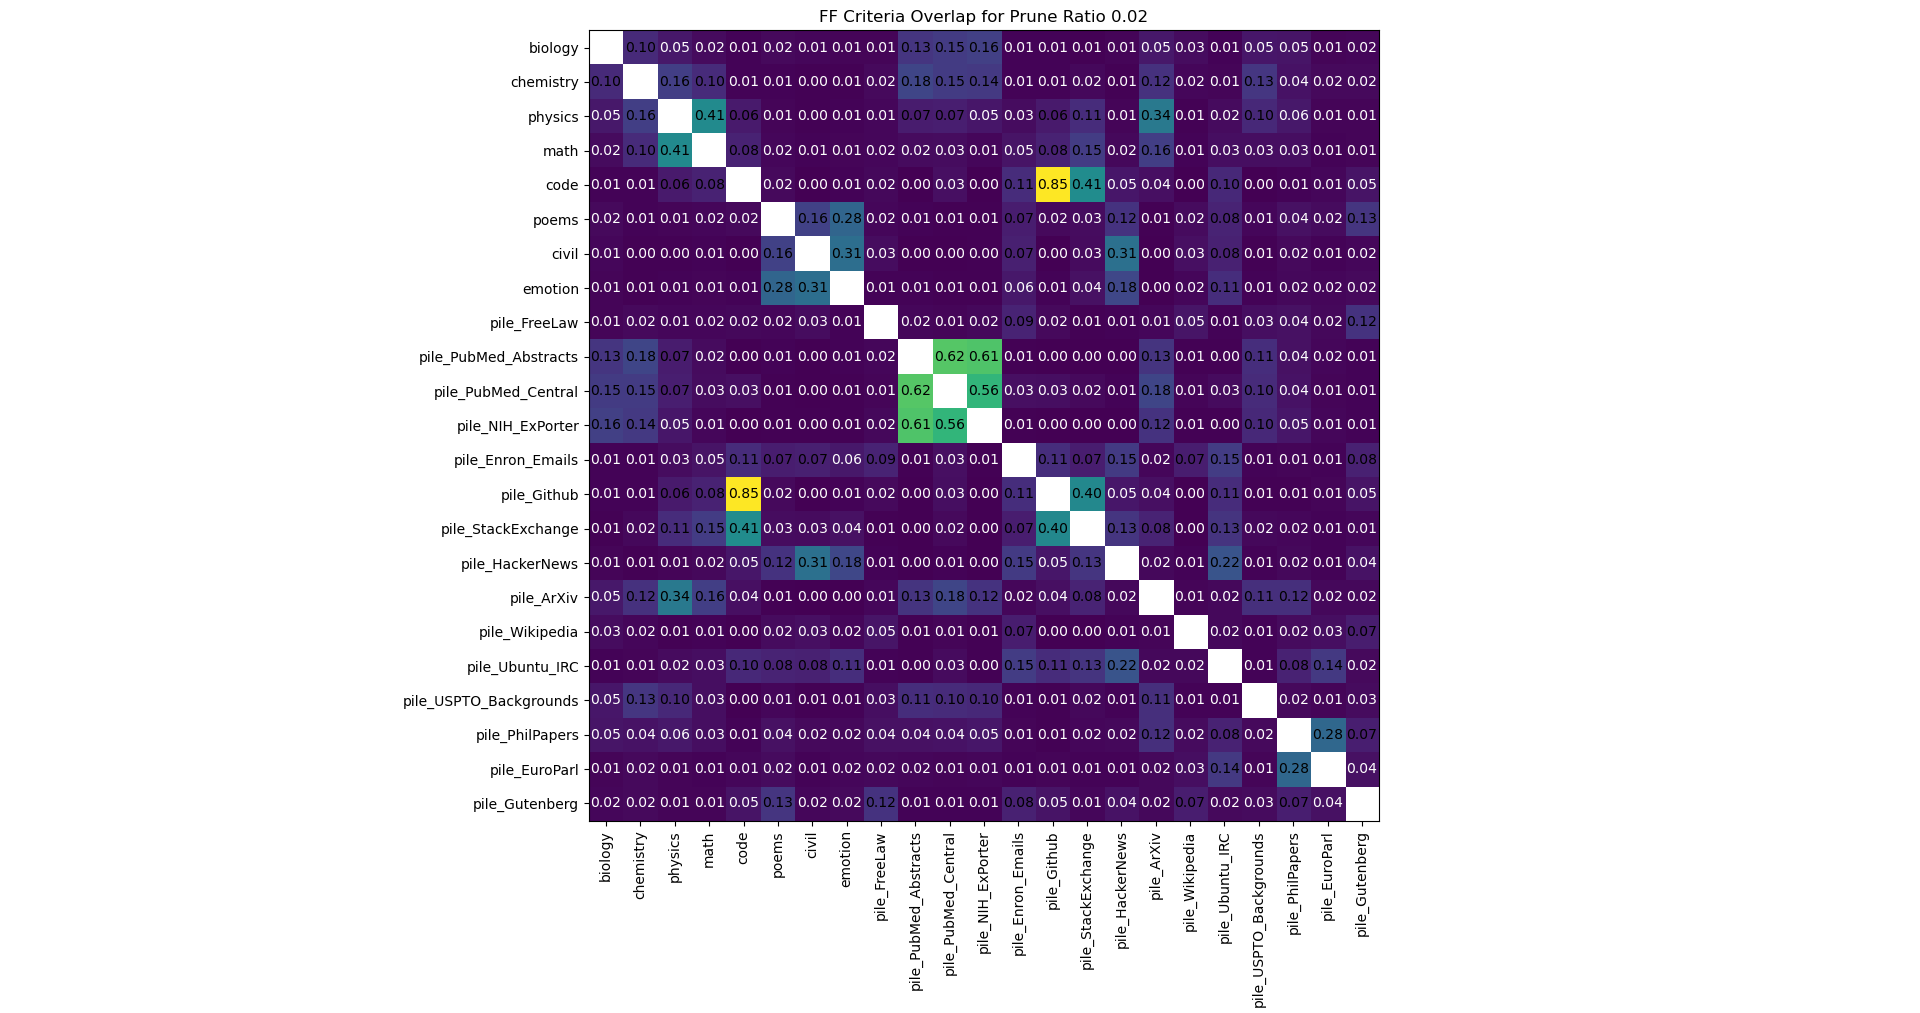
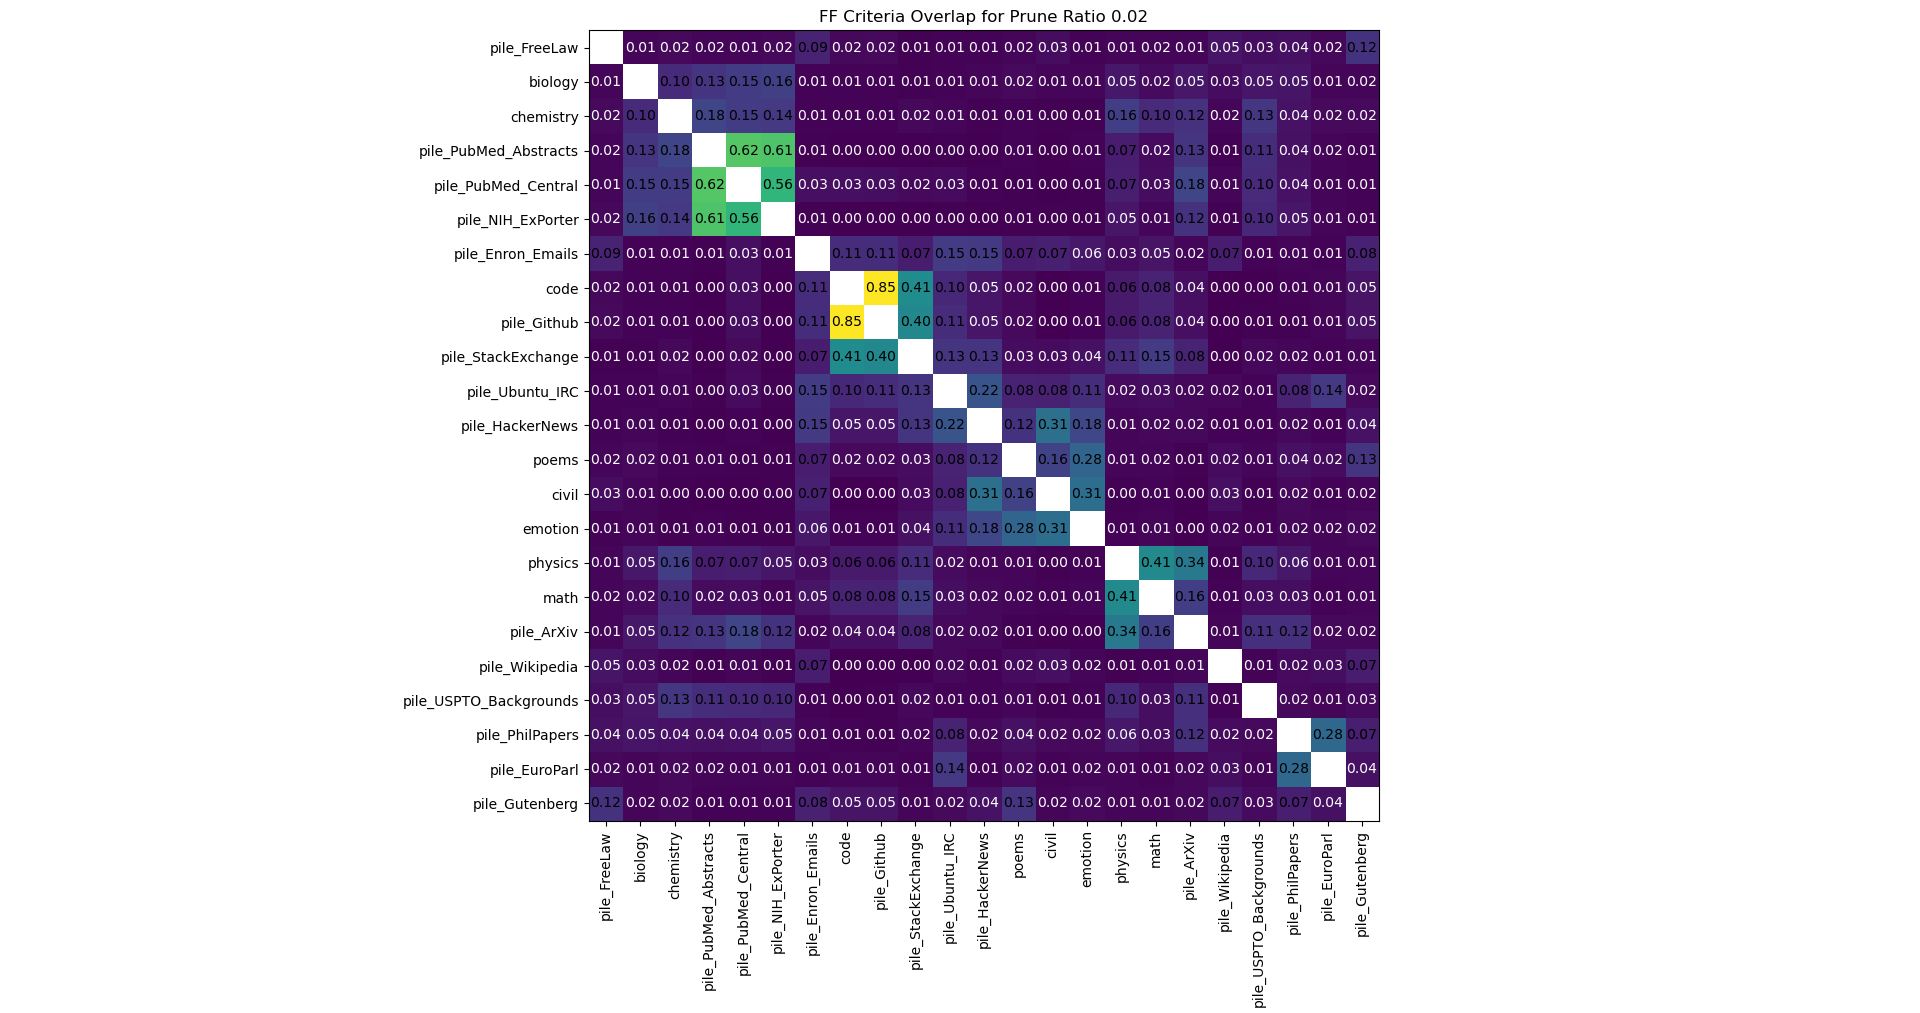
reordered repos in plot slightly

Changed region(s): [[0.2188, 0.0306, 0.7188, 0.9793], [0.6875, 0.0306, 0.7188, 0.0612]]

diff --git a/examples/neuron-mapping/plot.py b/examples/neuron-mapping/plot.py
@@ -8,7 +8,7 @@ def load_pt_file(directory: str, filename: str):
         print(key)
     return data
 
-cripple_repos = ["biology", "chemistry", "physics", "math", "code", "poems", "civil", "emotion", "pile_FreeLaw", "pile_PubMed_Abstracts", "pile_PubMed_Central", "pile_NIH_ExPorter", "pile_Enron_Emails", "pile_Github", "pile_StackExchange", "pile_HackerNews", "pile_ArXiv", "pile_Wikipedia", "pile_Ubuntu_IRC", "pile_USPTO_Backgrounds", "pile_PhilPapers", "pile_EuroParl", "pile_Gutenberg"]
+cripple_repos = ["pile_FreeLaw", "biology", "chemistry", "pile_PubMed_Abstracts", "pile_PubMed_Central", "pile_NIH_ExPorter", "pile_Enron_Emails", "code", "pile_Github",  "pile_StackExchange", "pile_Ubuntu_IRC", "pile_HackerNews", "poems", "civil", "emotion", "physics", "math", "pile_ArXiv", "pile_Wikipedia", "pile_USPTO_Backgrounds", "pile_PhilPapers", "pile_EuroParl", "pile_Gutenberg"]
 
 def plot_ratios(ratios, ff_frac):
     datasets = cripple_repos
